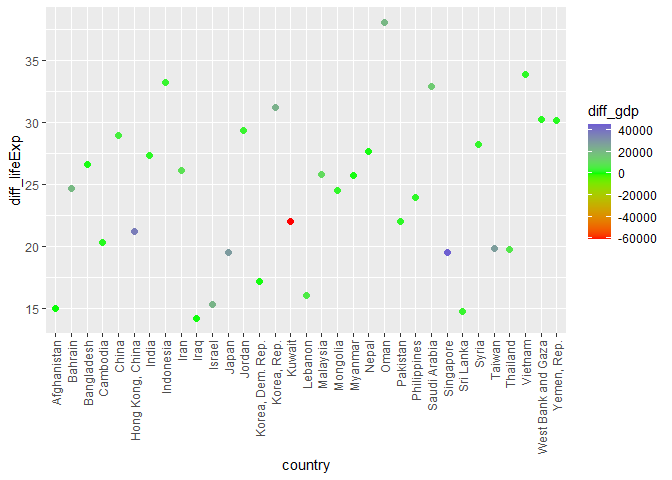
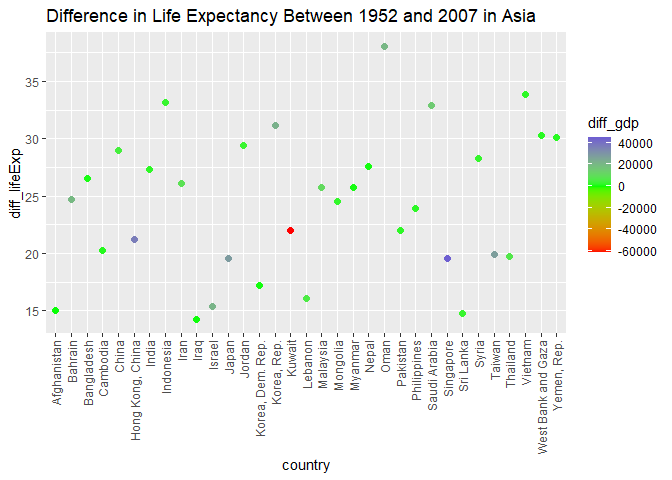
challenge 4 revisions

diff --git a/challenges/c04-gapminder-assignment.md b/challenges/c04-gapminder-assignment.md
@@ -249,7 +249,8 @@ can.
 gapminder |>
   filter(year == year_min) |>
   ggplot(aes(x = continent, y = gdpPercap)) +
-  geom_boxplot()
+  geom_boxplot() +
+  scale_y_log10()
 ```
 
 ![](c04-gapminder-assignment_files/figure-gfm/q2-task-1.png)<!-- -->
@@ -259,6 +260,7 @@ gapminder |>
 - Almost all of the continents have some outliers, except Oceania.
 - Asia has the widest range of GDP per Capita
 - Oceania has the smallest range of GDP per Capita
+- Americas has 2 outliers
 
 **Difficulties & Approaches**:
 
@@ -358,6 +360,7 @@ gapminder_filtered |>
     mapping = aes(color = country),
     size = 2
   ) + 
+  scale_y_log10() + 
   facet_wrap("year") 
 ```
 
@@ -578,10 +581,18 @@ country_names <-
 gapminder |>
   filter(country == country_names[1]) |>
   ggplot(aes(x = year, y = lifeExp, color = gdpPercap)) +
-  geom_point()
+  geom_point() +
+  ggtitle("Life Expectancy in Oman over Time")
 ```
 
 ![](c04-gapminder-assignment_files/figure-gfm/q5-task2-1.png)<!-- -->
+
+``` r
+country_names[1]
+```
+
+    ## [1] Oman
+    ## 142 Levels: Afghanistan Albania Algeria Angola Argentina Australia ... Zimbabwe
 
 - Higher life expectancy is directly correlated to higher GDP
 - Higher life expectancy is not linearly related to higher GDP
@@ -619,7 +630,8 @@ gapminder_merged |>
   ggplot(aes(x = country, y = diff_lifeExp, color = diff_gdp)) +
   geom_point(size = 2) +
   scale_colour_gradient2(low = "red", mid = "green", high = "blue") +
-  theme(axis.text.x = element_text(angle = 90, vjust = 0.5, hjust=1))
+  theme(axis.text.x = element_text(angle = 90, vjust = 0.5, hjust=1)) +
+  ggtitle("Difference in Life Expectancy Between 1952 and 2007 in Africa")
 ```
 
 ![](c04-gapminder-assignment_files/figure-gfm/q5-task3-1.png)<!-- -->
@@ -630,7 +642,8 @@ gapminder_merged |>
   ggplot(aes(x = country, y = diff_lifeExp, color = diff_gdp)) +
   geom_point(size = 2) +
   scale_colour_gradient2(low = "red", mid = "green", high = "blue") +
-  theme(axis.text.x = element_text(angle = 90, vjust = 0.5, hjust=1))
+  theme(axis.text.x = element_text(angle = 90, vjust = 0.5, hjust=1)) +
+  ggtitle("Difference in Life Expectancy Between 1952 and 2007 in Asia")
 ```
 
 ![](c04-gapminder-assignment_files/figure-gfm/q5-task3-2.png)<!-- -->
@@ -641,7 +654,8 @@ gapminder_merged |>
   ggplot(aes(x = country, y = diff_lifeExp, color = diff_gdp)) +
   geom_point(size = 2) +
   scale_colour_gradient2(low = "red", mid = "green", high = "blue") +
-  theme(axis.text.x = element_text(angle = 90, vjust = 0.5, hjust=1))
+  theme(axis.text.x = element_text(angle = 90, vjust = 0.5, hjust=1)) +
+  ggtitle("Difference in Life Expectancy Between 1952 and 2007 in the Americas")
 ```
 
 ![](c04-gapminder-assignment_files/figure-gfm/q5-task3-3.png)<!-- -->
@@ -652,7 +666,8 @@ gapminder_merged |>
   ggplot(aes(x = country, y = diff_lifeExp, color = diff_gdp)) +
   geom_point(size = 2) +
   scale_colour_gradient2(low = "red", mid = "green", high = "blue") +
-  theme(axis.text.x = element_text(angle = 90, vjust = 0.5, hjust=1))
+  theme(axis.text.x = element_text(angle = 90, vjust = 0.5, hjust=1)) +
+  ggtitle("Difference in Life Expectancy Between 1952 and 2007 in Europe")
 ```
 
 ![](c04-gapminder-assignment_files/figure-gfm/q5-task3-4.png)<!-- -->
@@ -663,7 +678,8 @@ gapminder_merged |>
   ggplot(aes(x = country, y = diff_lifeExp, color = diff_gdp)) +
   geom_point(size = 2) +
   scale_colour_gradient2(low = "red", mid = "green", high = "blue") +
-  theme(axis.text.x = element_text(angle = 90, vjust = 0.5, hjust=1))
+  theme(axis.text.x = element_text(angle = 90, vjust = 0.5, hjust=1)) +
+  ggtitle("Difference in Life Expectancy Between 1952 and 2007 in Oceania")
 ```
 
 ![](c04-gapminder-assignment_files/figure-gfm/q5-task3-5.png)<!-- -->
@@ -682,6 +698,6 @@ gapminder_merged |>
 - Some Eastern European countries (like Albania) show higher increases
   than Western European ones
 - In general, countries with positive GDP growth also saw increases in
-  life expectancy, but the relationship is not strictly linear
+  life expectancy
 - Outliers like Lebanon show that life expectancy can increase despite
   declining GDP
